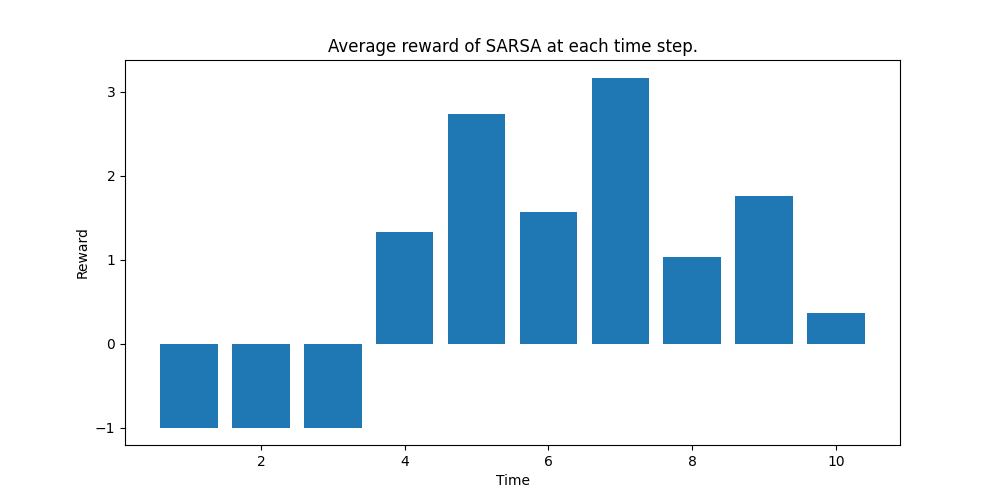
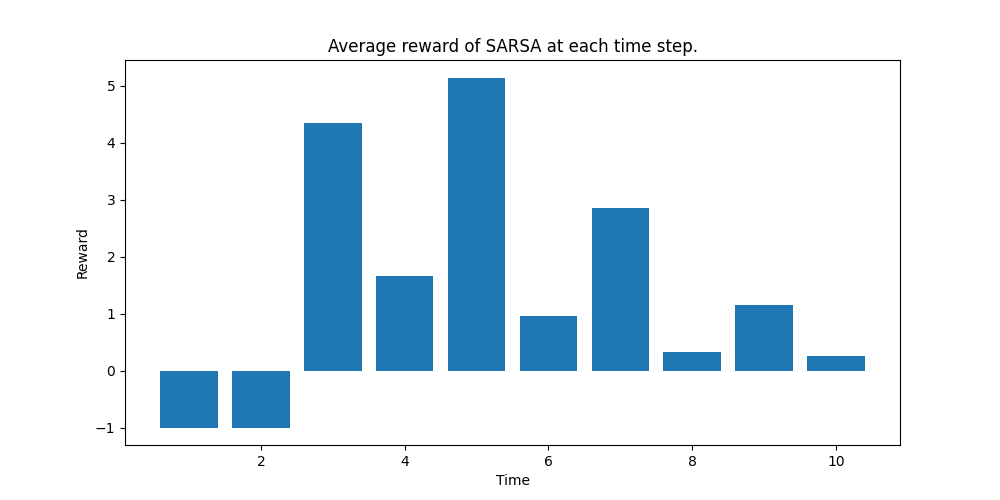
Tweaked learning rate to improve plots.

diff --git a/src/data_collection.py b/src/data_collection.py
@@ -193,11 +193,11 @@ if __name__ == "__main__":
     # Global parameters
     OPTIONS = {"cat_position": np.array([0, 0]), "target_position": np.array([3, 3])}
     BOARD = gym.make("Board-v0", render_mode="None")
-    SEED = 0
+    SEED = 69420
     N_EPISODES = 1000
     MAX_STEPS = 100
-    N_COMPARISON_SAMPLES = 10
-    COMPARISON_TICKS = tuple(range(0, 101, 1))
+    N_COMPARISON_SAMPLES = 50
+    COMPARISON_TICKS = tuple(range(0, 201, 2))
 
     # Data collection
     print("Collecting data")
@@ -234,13 +234,13 @@ if __name__ == "__main__":
 
     # Temporal Difference Learning
     sarsa = TemporalDifferencePolicy(BOARD.observation_space, BOARD.action_space, algorithm="SARSA", env=BOARD,
-                                     n_episodes=100, alpha=0.5, gamma=0.9, epsilon=0.3, seed=SEED)
+                                     n_episodes=500, alpha=0.05, gamma=0.9, epsilon=0.3, seed=SEED)
 
     data["SARSA"] = collect_algorithm_data(BOARD, sarsa, n_episodes=N_EPISODES, options=OPTIONS, seed=SEED, max_steps=MAX_STEPS)
     print("Finished collecting data for SARSA (5/7)")
 
     q_learning = TemporalDifferencePolicy(BOARD.observation_space, BOARD.action_space, algorithm="QLearning", env=BOARD,
-                                          n_episodes=100, alpha=0.5, gamma=0.9, epsilon=0.3, seed=SEED)
+                                          n_episodes=500, alpha=0.05, gamma=0.9, epsilon=0.3, seed=SEED)
 
     data["Q-Learning"] = collect_algorithm_data(BOARD, q_learning, n_episodes=N_EPISODES, options=OPTIONS, seed=SEED, max_steps=MAX_STEPS)
     print("Finished collecting data for Q-Learning (6/7)")
@@ -285,8 +285,8 @@ if __name__ == "__main__":
     policy_funcs = (
         lambda n_episodes: mc_comparison_policy.first_visit_monte_carlo_control(BOARD, n_episodes=n_episodes, gamma=0.9,
                                                                                 reset=False, epsilon=0.3),
-        lambda n_episodes: q_learning_comparison_policy.q_learning(BOARD, n_episodes=n_episodes, alpha=0.5, gamma=0.9, reset=False),
-        lambda n_episodes: sarsa_comparison_policy.sarsa(BOARD, n_episodes=n_episodes, alpha=0.5, gamma=0.9,
+        lambda n_episodes: q_learning_comparison_policy.q_learning(BOARD, n_episodes=n_episodes, alpha=0.05, gamma=0.9, reset=False),
+        lambda n_episodes: sarsa_comparison_policy.sarsa(BOARD, n_episodes=n_episodes, alpha=0.05, gamma=0.9,
                                                          reset=False)
     )
     algorithms = ("Monte-Carlo", "Q-Learning", "SARSA")
